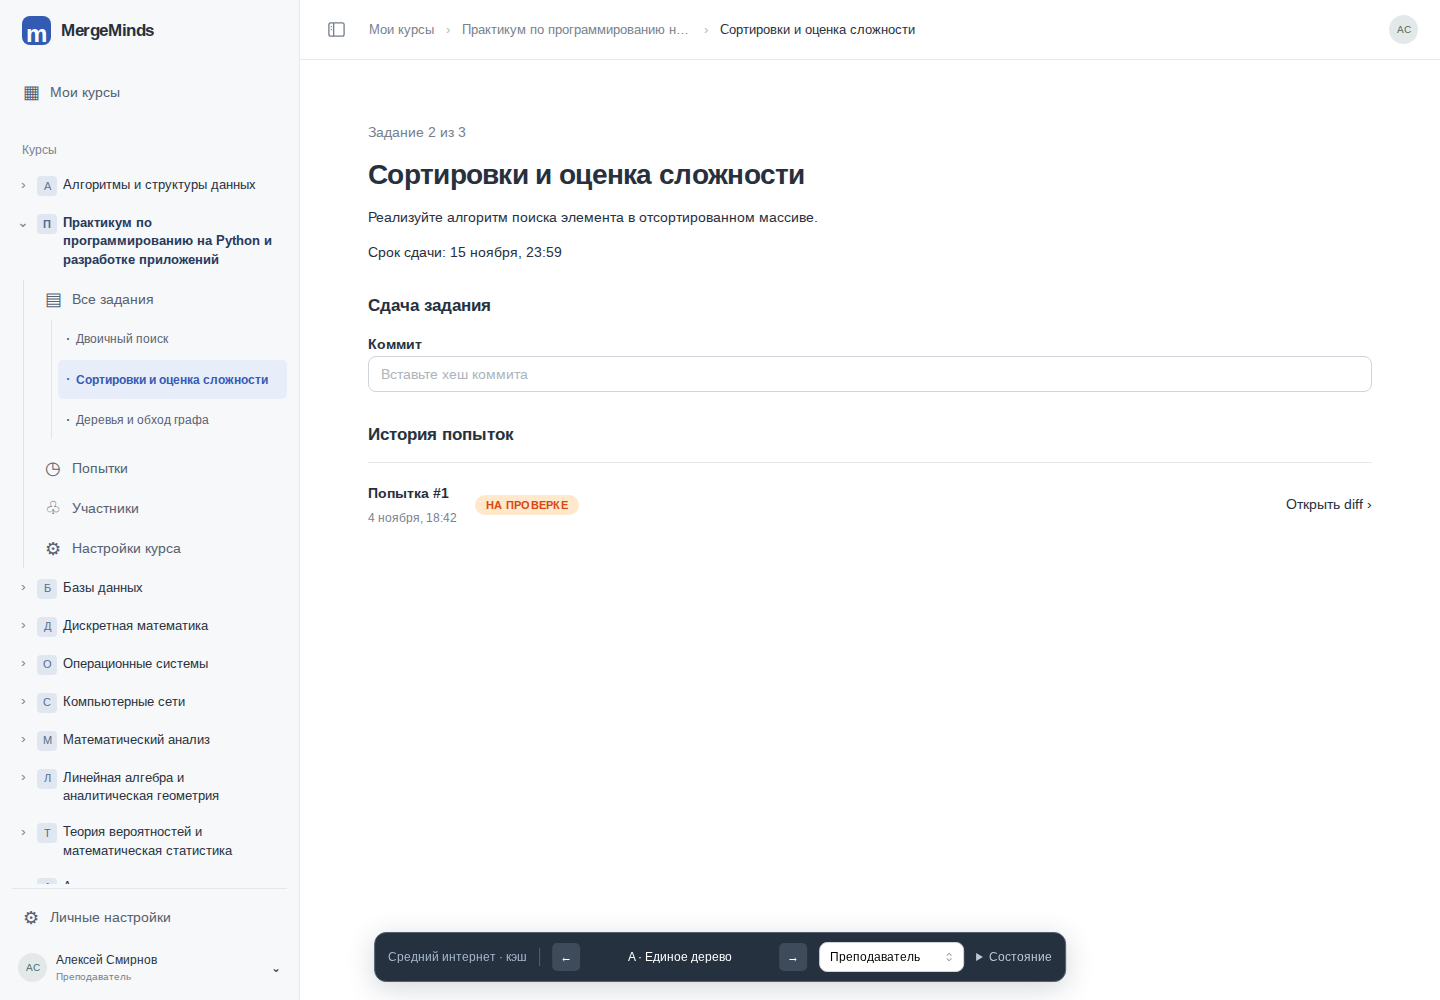
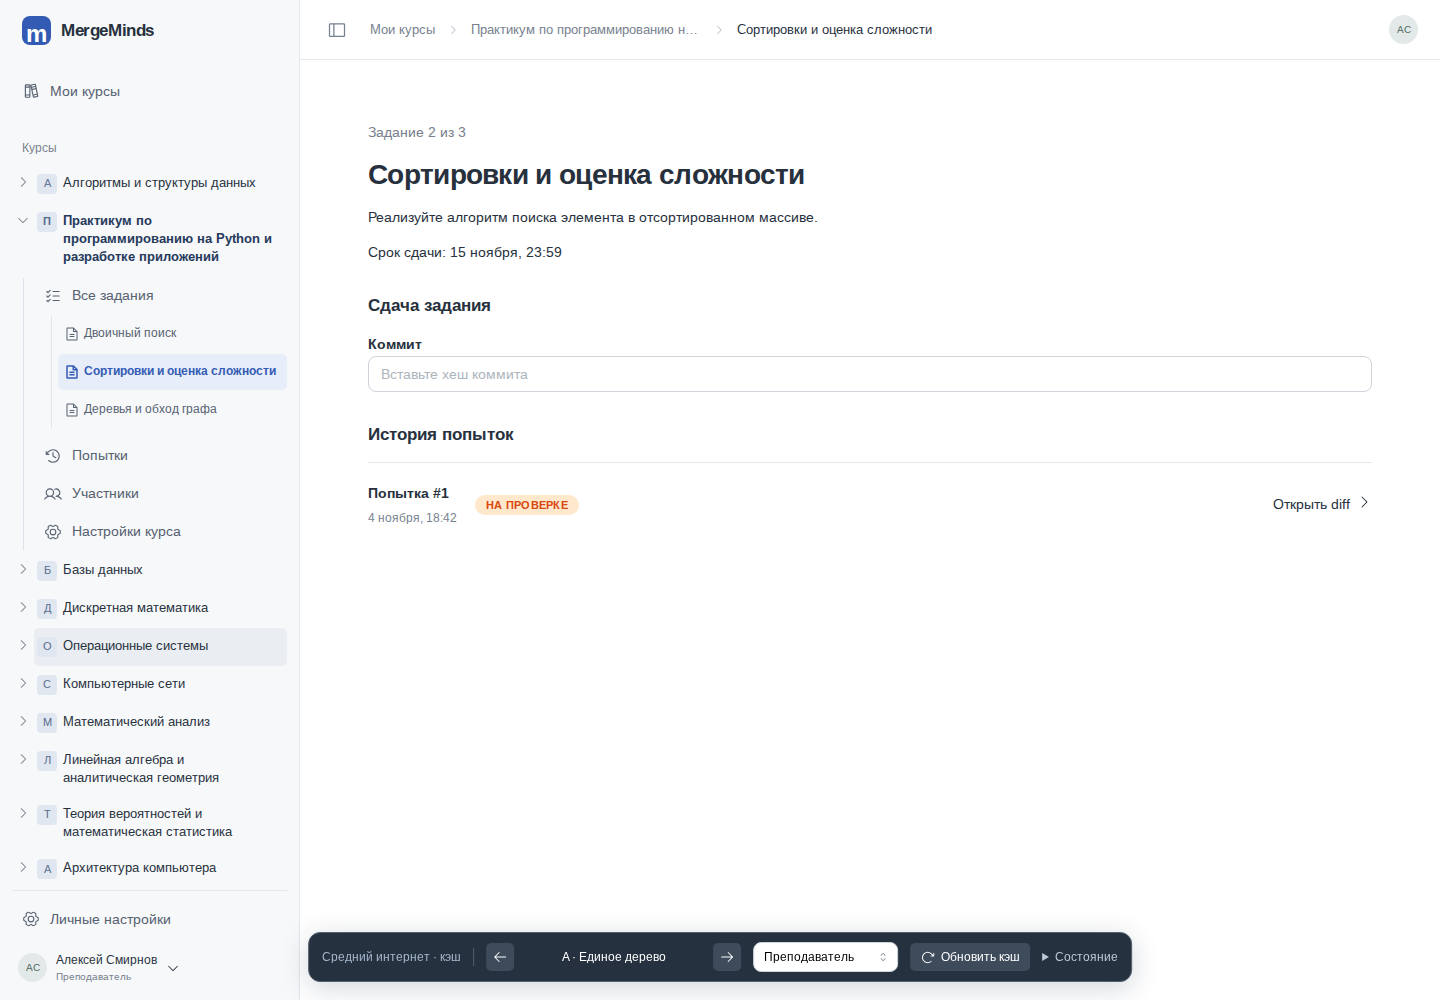
style(prototype): заменить символы единым набором иконок

diff --git a/src/app/navigation-prototype/navigation-prototype.tsx b/src/app/navigation-prototype/navigation-prototype.tsx
@@ -3,6 +3,23 @@
 import { useEffect, useState, type ReactNode } from "react";
 import { useQuery, useQueryClient, useMutation } from "@tanstack/react-query";
 import {
+  BooksIcon,
+  ListChecksIcon,
+  FileTextIcon,
+  ClockCounterClockwiseIcon,
+  UsersIcon,
+  GearSixIcon,
+  CaretDownIcon,
+  CaretRightIcon,
+  ArrowLeftIcon,
+  ArrowRightIcon,
+  ListIcon,
+  SidebarSimpleIcon,
+  FileCodeIcon,
+  ArrowClockwiseIcon,
+  type Icon,
+} from "@phosphor-icons/react";
+import {
   prototypePageQuery,
   prototypeStaleTime,
   prototypeCourseTreeQuery,
@@ -122,9 +139,15 @@ const names: Record<string, string> = {
   C: "Рабочее пространство",
 };
 
-type NavProps = { path: string; children: ReactNode; className?: string; onClick?: () => void };
+type NavProps = {
+  path: string;
+  children: ReactNode;
+  className?: string;
+  ariaLabel?: string;
+  onClick?: () => void;
+};
 
-function Nav({ path, children, className, onClick }: NavProps) {
+function Nav({ path, children, className, ariaLabel, onClick }: NavProps) {
   return (
     <Link
       to="/prototype/$"
@@ -137,6 +160,7 @@ function Nav({ path, children, className, onClick }: NavProps) {
         status: old.status ?? "all",
       })}
       className={className}
+      aria-label={ariaLabel}
       onClick={onClick}
     >
       {children}
@@ -147,18 +171,18 @@ function Nav({ path, children, className, onClick }: NavProps) {
 function NavItem({
   path,
   label,
-  icon,
+  icon: ItemIcon,
   active,
 }: {
   path: string;
   label: string;
-  icon: string;
+  icon: Icon;
   active: boolean;
 }) {
   return (
     <Nav path={path} className={`np-nav-item ${active ? "active" : ""}`}>
       <span aria-hidden="true" className="np-icon">
-        {icon}
+        <ItemIcon size={18} weight={active ? "bold" : "regular"} />
       </span>
       <span>{label}</span>
     </Nav>
@@ -185,7 +209,7 @@ function CourseNavigation({
       <NavItem
         path={base}
         label={withTasks ? "Все задания" : "Задания"}
-        icon="▤"
+        icon={ListChecksIcon}
         active={path === base || (!withTasks && path.startsWith(`${base}/tasks/`))}
       />
       {withTasks && (
@@ -195,7 +219,7 @@ function CourseNavigation({
               key={id}
               path={`${base}/tasks/${id}`}
               label={name}
-              icon="·"
+              icon={FileTextIcon}
               active={path === `${base}/tasks/${id}`}
             />
           ))}
@@ -204,20 +228,20 @@ function CourseNavigation({
       <NavItem
         path={`${base}/attempts`}
         label={teacher ? "Попытки" : "Мои попытки"}
-        icon="◷"
+        icon={ClockCounterClockwiseIcon}
         active={path.startsWith(`${base}/attempts`)}
       />
       <NavItem
         path={`${base}/members`}
         label="Участники"
-        icon="♧"
+        icon={UsersIcon}
         active={path === `${base}/members`}
       />
       {teacher && (
         <NavItem
           path={`${base}/settings`}
           label="Настройки курса"
-          icon="⚙"
+          icon={GearSixIcon}
           active={path === `${base}/settings`}
         />
       )}
@@ -298,13 +322,15 @@ function Sidebar({
         <span className="np-logo">m</span>
         <strong>MergeMinds</strong>
       </Nav>
-      {variant !== "B" && <NavItem path="/" label="Мои курсы" icon="▦" active={path === "/"} />}
+      {variant !== "B" && (
+        <NavItem path="/" label="Мои курсы" icon={BooksIcon} active={path === "/"} />
+      )}
       {variant === "C" && (
         <Menu width={270} position="bottom-start">
           <Menu.Target>
             <button className="np-course-select">
               {course.name}
-              <span>⌄</span>
+              <CaretDownIcon size={14} aria-hidden="true" />
             </button>
           </Menu.Target>
           <Menu.Dropdown>
@@ -335,7 +361,9 @@ function Sidebar({
                       aria-controls={childrenId}
                       onClick={() => setExpanded((old) => ({ ...old, [item.id]: !isExpanded }))}
                     >
-                      <span aria-hidden="true">{isExpanded ? "⌄" : "›"}</span>
+                      <span aria-hidden="true">
+                        {isExpanded ? <CaretDownIcon size={14} /> : <CaretRightIcon size={14} />}
+                      </span>
                     </button>
                     <Nav
                       path={`/courses/${item.id}`}
@@ -364,7 +392,7 @@ function Sidebar({
                 key={name}
                 path={`${base}/tasks/${index + 1}`}
                 label={name}
-                icon="·"
+                icon={FileTextIcon}
                 active={path === `${base}/tasks/${index + 1}`}
               />
             ))}
@@ -372,13 +400,18 @@ function Sidebar({
         )}
       </div>
       <div className="np-account">
-        <NavItem path="/settings" label="Личные настройки" icon="⚙" active={path === "/settings"} />
+        <NavItem
+          path="/settings"
+          label="Личные настройки"
+          icon={GearSixIcon}
+          active={path === "/settings"}
+        />
         <Nav path="/login" className="np-user">
           <span className="np-avatar">АС</span>
           <span>
             Алексей Смирнов<small>{teacher ? "Преподаватель" : "Студент"}</small>
           </span>
-          <span>⌄</span>
+          <CaretDownIcon size={14} aria-hidden="true" />
         </Nav>
       </div>
     </div>
@@ -440,7 +473,7 @@ function Breadcrumbs({
           <li key={part.path}>
             {i > 0 && (
               <span className="np-separator" aria-hidden="true">
-                {variant === "C" ? "/" : "›"}
+                {variant === "C" ? "/" : <CaretRightIcon size={12} />}
               </span>
             )}
             {i === parts.length - 1 ? (
@@ -454,7 +487,7 @@ function Breadcrumbs({
               <Menu>
                 <Menu.Target>
                   <button aria-label="Выбрать курс" className="np-crumb-menu">
-                    ⌄
+                    <CaretDownIcon size={12} aria-hidden="true" />
                   </button>
                 </Menu.Target>
                 <Menu.Dropdown>
@@ -470,7 +503,7 @@ function Breadcrumbs({
               <Menu>
                 <Menu.Target>
                   <button aria-label="Выбрать задание" className="np-crumb-menu">
-                    ⌄
+                    <CaretDownIcon size={12} aria-hidden="true" />
                   </button>
                 </Menu.Target>
                 <Menu.Dropdown>
@@ -530,8 +563,8 @@ function VariantB({
         <Nav path="/" className="np-rail-logo">
           m
         </Nav>
-        <Nav path="/" className="np-rail-item">
-          ▦
+        <Nav path="/" className="np-rail-item" ariaLabel="Мои курсы">
+          <BooksIcon size={20} aria-hidden="true" />
         </Nav>
         {courses.map((course) => (
           <Nav
@@ -542,8 +575,8 @@ function VariantB({
             <span title={course.name}>{course.short}</span>
           </Nav>
         ))}
-        <Nav path="/settings" className="np-rail-bottom">
-          ⚙
+        <Nav path="/settings" className="np-rail-bottom" ariaLabel="Личные настройки">
+          <GearSixIcon size={20} aria-hidden="true" />
         </Nav>
       </aside>
       <aside className="np-permanent">{sidebar}</aside>
@@ -659,17 +692,7 @@ export function NavigationPrototype() {
         onClick={() => (hidden ? setDrawer(true) : setCollapsed(true))}
         title="Навигация"
       >
-        <svg
-          width="19"
-          height="19"
-          viewBox="0 0 20 20"
-          fill="none"
-          stroke="currentColor"
-          strokeWidth="1.4"
-        >
-          <rect x="2" y="3" width="16" height="14" rx="2" />
-          <path d="M7 3v14M4 7h1M4 10h1" />
-        </svg>
+        <SidebarSimpleIcon size={20} aria-hidden="true" />
       </button>
       <Breadcrumbs
         path={path}
@@ -736,7 +759,7 @@ export function NavigationPrototype() {
         aria-label="Открыть мобильную навигацию"
         onClick={() => setDrawer(true)}
       >
-        ☰
+        <ListIcon size={20} aria-hidden="true" />
       </button>
       <Drawer
         opened={drawer}
@@ -780,13 +803,13 @@ export function NavigationPrototype() {
             Средний интернет · кэш
           </span>
           <button aria-label="Предыдущий вариант" onClick={() => changeVariant(-1)}>
-            ←
+            <ArrowLeftIcon size={16} aria-hidden="true" />
           </button>
           <span className="np-variant-name">
             {variant} · {names[variant]}
           </span>
           <button aria-label="Следующий вариант" onClick={() => changeVariant(1)}>
-            →
+            <ArrowRightIcon size={16} aria-hidden="true" />
           </button>
           <Select
             id="prototype-role"
@@ -814,6 +837,7 @@ export function NavigationPrototype() {
             title="Пометить все запросы прототипа устаревшими и обновить открытые в фоне"
             onClick={() => refreshCache.mutate()}
           >
+            <ArrowClockwiseIcon size={15} aria-hidden="true" />
             {refreshCache.isPending ? "Обновление кэша…" : "Обновить кэш"}
           </button>
           <details>
@@ -886,7 +910,10 @@ function PageContent({
               className={file === name ? "active" : ""}
               onClick={() => setFile(name)}
             >
-              <span>▤ {name}</span>
+              <span className="np-file-name">
+                <FileCodeIcon size={16} aria-hidden="true" />
+                {name}
+              </span>
               <small>+12 −3</small>
             </button>
           ))}
@@ -957,7 +984,9 @@ function PageContent({
                 <p>{course.teacher}</p>
                 <small>{course.term} · 3 задания</small>
               </div>
-              <span>›</span>
+              <span>
+                <CaretRightIcon size={16} aria-hidden="true" />
+              </span>
             </Nav>
           ))}
         </div>
@@ -1087,7 +1116,9 @@ function PageContent({
               <Badge color={id === 3 ? "green" : "orange"} variant="light">
                 {id === 3 ? "Зачтено" : "На проверке"}
               </Badge>
-              <span>›</span>
+              <span>
+                <CaretRightIcon size={16} aria-hidden="true" />
+              </span>
             </Nav>
           ))}
       </main>
@@ -1112,7 +1143,12 @@ function PageContent({
           <Badge color="orange" variant="light">
             На проверке
           </Badge>
-          <span>Открыть diff ›</span>
+          <span className="np-open-diff">
+            Открыть diff{" "}
+            <span>
+              <CaretRightIcon size={16} aria-hidden="true" />
+            </span>
+          </span>
         </Nav>
       </main>
     );
@@ -1131,7 +1167,9 @@ function PageContent({
             <strong>{task}</strong>
             <small>До 15 ноября · {index === 0 ? "Есть попытка на проверке" : "Нет попыток"}</small>
           </span>
-          <span>›</span>
+          <span>
+            <CaretRightIcon size={16} aria-hidden="true" />
+          </span>
         </Nav>
       ))}
       <div className="np-inline-links">

diff --git a/src/app/navigation-prototype/navigation-prototype.css b/src/app/navigation-prototype/navigation-prototype.css
@@ -855,3 +855,47 @@
   white-space: nowrap;
   border: 0;
 }
+.np-icon {
+  display: flex;
+  align-items: center;
+  justify-content: center;
+}
+.np-task-links .np-icon {
+  flex-basis: 18px;
+}
+.np-task-links .np-icon svg {
+  width: 16px;
+  height: 16px;
+}
+.np-course-toggle > span {
+  display: flex;
+}
+.np-separator {
+  display: flex;
+  align-items: center;
+}
+.np-crumb-menu {
+  display: inline-flex;
+  align-items: center;
+  justify-content: center;
+}
+.np-mobile-toggle {
+  padding: 2px;
+  align-items: center;
+  justify-content: center;
+}
+.np-prototype-bar > button {
+  display: inline-flex;
+  align-items: center;
+  justify-content: center;
+  gap: 6px;
+}
+.np-file-name,
+.np-open-diff {
+  display: inline-flex;
+  align-items: center;
+  gap: 6px;
+}
+.np-file-name svg {
+  flex-shrink: 0;
+}

diff --git a/docs/prototypes/navigation/README.md b/docs/prototypes/navigation/README.md
@@ -17,6 +17,10 @@
 
 Переключатель снизу и клавиши ← / → меняют `?variant=`, сохраняя страницу, роль и фильтр. Стрелки в полях и меню не перехватываются. Переключатель виден только в dev. Под «Состояние» показаны параметры прототипа. Роль влияет только на видимость ссылок, это не реализация прав доступа.
 
+## Иконки
+
+Иконки прототипа — Phosphor (`@phosphor-icons/react`): размер 18 px в навигации, начертание `regular`, у активного пункта — `bold`. Стрелки и служебные кнопки тоже используют этот набор. Буквы курсов и логотип остаются текстовыми обозначениями.
+
 ## Проверка с 15 курсами
 
 Предварительно понравился вариант A — единое дерево. Для проверки плотности добавлены 15 курсов с короткими и длинными названиями. Список один и тот же во всех вариантах и на главной. Проверить прокрутку дерева, доступность нижних курсов, контекстное меню выбранного курса и возврат из diff. Итоговое согласование ещё впереди. [Нижняя часть дерева с активным курсом №15](fifteen-courses.png).
